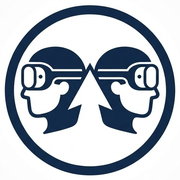
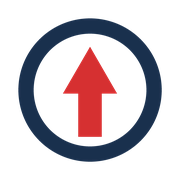
feat(brand): 마크 단순화 — 링 + 상승 화살표 (작은 크기 가독성)
24px 헤더·16px 파비콘에서 두 얼굴이 뭉개져 식별이 안 됐다. 안을 세 가지 만들어
실제 크기(16/20/24/32)로 렌더해 비교했다:

  A 링+화살표        → 16px 에서도 또렷  ← 채택
  B 링+화살표+바이저  → 바이저가 링에 붙어 **조준경처럼** 보인다. '두 사람' 전달 실패
  C 링+R 모노그램     → **등록상표 기호(®)** 로 읽힌다

- SVG 2종 신규: mark.svg(네이비 링 + 붉은 화살표) · mark-white.svg(currentColor)
- 헤더는 **빈 span + CSS mask** 로 그린다. <img> 로 SVG 를 넣으면 문서가 분리돼
  currentColor 가 안 먹고, mask 를 걸면 이미지 내용과 배경이 겹친다.
  mask 방식이라 테마색(--c-red)을 그대로 따라간다
- favicon/icon-192/512/apple-touch/og-image 전부 새 마크로 재생성
- 원본 상세 로고는 mark-detailed.png 로 보존 (큰 화면·소개 페이지용)

diff --git a/public/css/components.css b/public/css/components.css
@@ -42,6 +42,11 @@
     height: 24px;
     flex: none;
     display: block;
+    /* ⚠ <img> 로 불러온 SVG 안에서는 currentColor 가 먹지 않는다(문서가 분리된다).
+       mask 로 모양만 쓰고 색은 배경으로 칠한다 → 테마색이 바뀌어도 따라간다. */
+    background: var(--c-red);
+    -webkit-mask: url('/brand/mark-white.svg') center / contain no-repeat;
+            mask: url('/brand/mark-white.svg') center / contain no-repeat;
 }
 .brand::after { content: '.'; color: var(--c-purple); }
 .nav {
